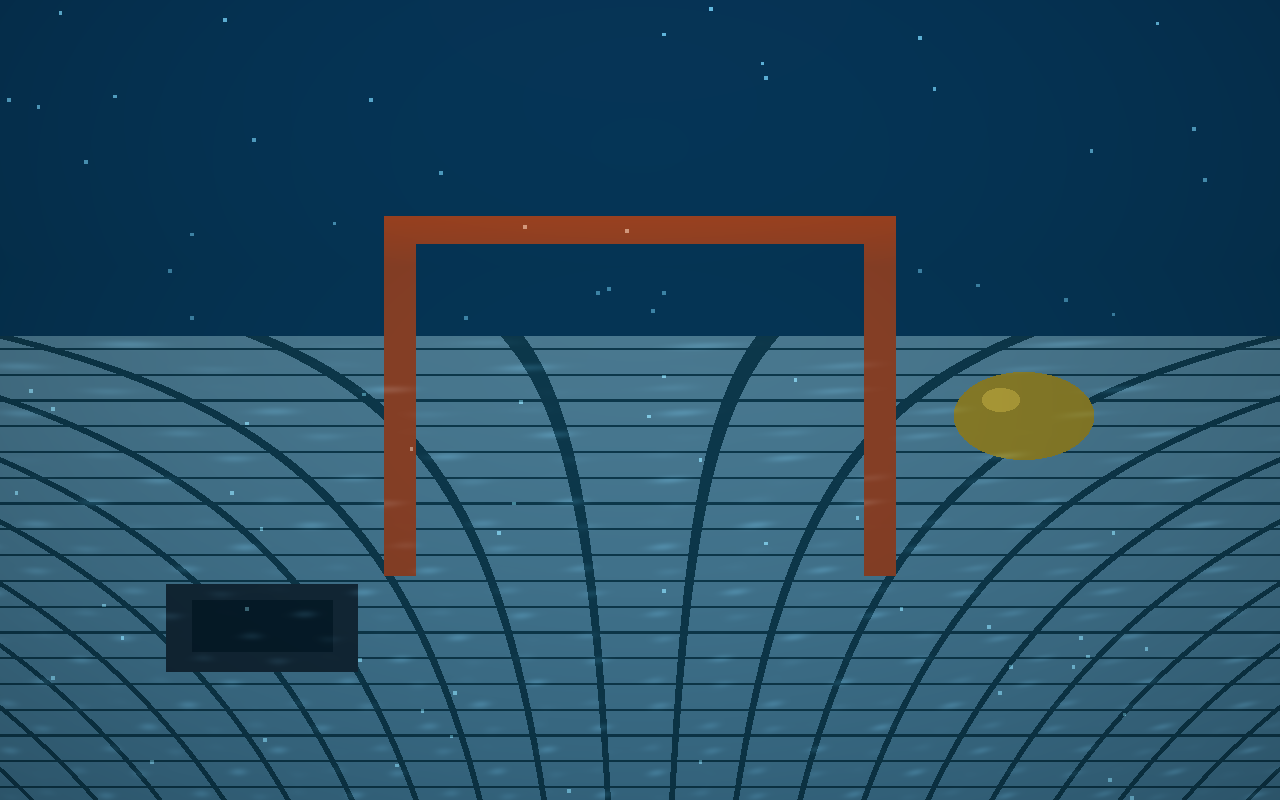
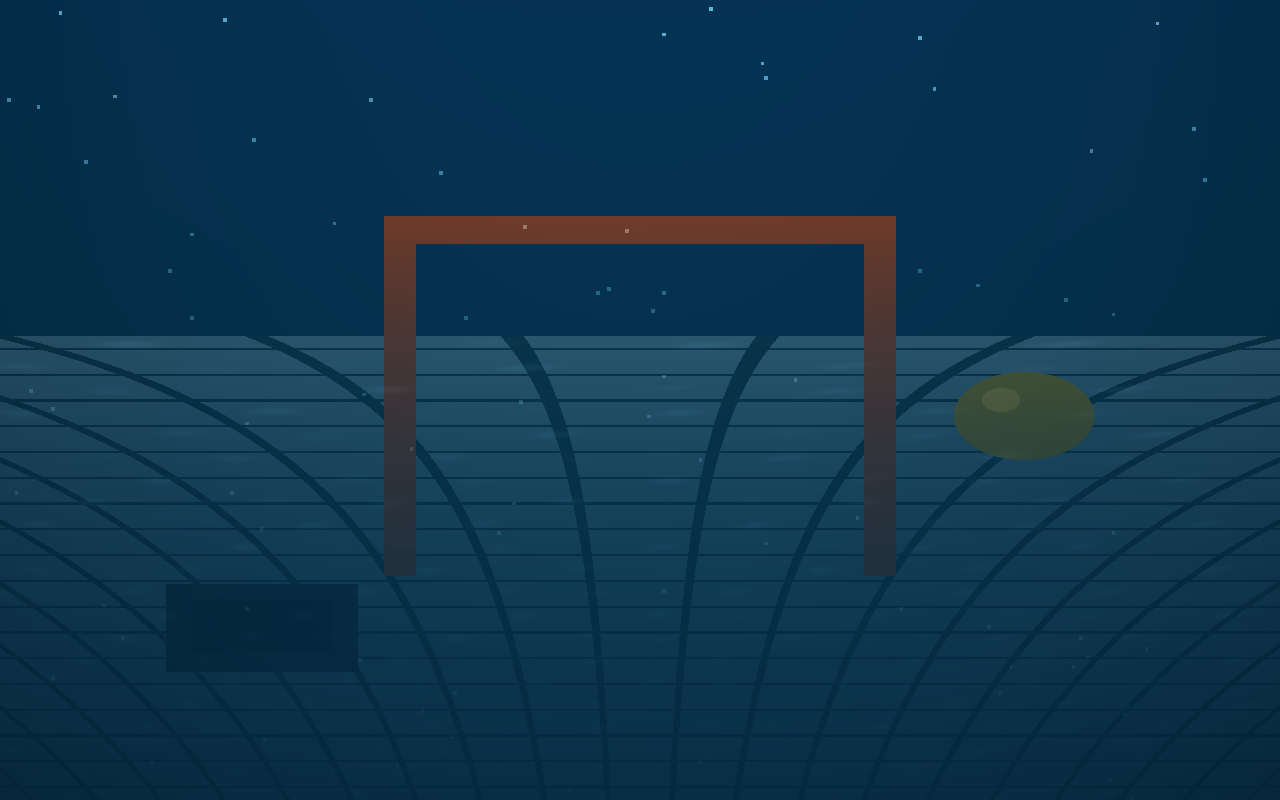
Split turbidity into per-channel medium controls
Merged after zig build test and CLI verification passed.

diff --git a/README.md b/README.md
@@ -25,7 +25,13 @@ Pass as positional CLI args (see above), in this order:
 | 1   | `width`     | 1280    | Output width in pixels           |
 | 2   | `height`    | 800     | Output height in pixels          |
 | 3   | `time`      | 1.5     | Animation time (caustics, water) |
-| 4   | `turbidity` | 1.0     | Water murkiness                  |
+| 4   | `turbidity` | 1.0     | Deprecated convenience mapping to equal `beta_d` and `beta_b` channels |
+
+For channel-wise control, pass comma-separated RGB values with
+`--beta-d R,G,B`, `--beta-b R,G,B`, and `--b-inf R,G,B`. These options use the
+legacy procedural path's normalized screen-space coordinate rather than metric
+scene distance. Positional `turbidity` remains supported for compatibility and
+is overridden per channel when an explicit option is supplied.
 
 ## Renders
 
